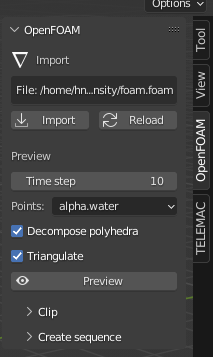
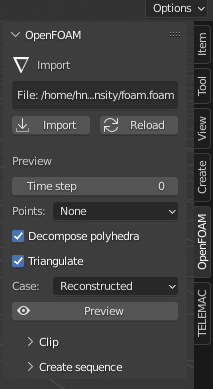
[Docs] Updated user manual

diff --git a/docs/source/documentation/telemac/index.rst b/docs/source/documentation/telemac/index.rst
@@ -6,7 +6,8 @@ TELEMAC
 * :ref:`telemac_create_sequence`
 
 .. important::
-    Useful information are printed in the console (times, errors, warnings, etc). Do not hesitate to open it. On Windows, ``Window ‣ Toggle System Console``
+    Useful information are printed in the console (times, errors, warnings, etc).
+    Do not hesitate to open it. On Windows, ``Window ‣ Toggle System Console``.
 
 
 .. _telemac_import_file:
@@ -22,7 +23,7 @@ Import a file
     For large meshes (> 100k vertices) or results from 3D simulations, this operation can take several seconds to complete.
 
 .. image:: /images/telemac/import_file.png
-    :width: 35%
+    :width: 45%
     :alt: Import an TELEMAC file (button)
     :align: center
 
@@ -37,7 +38,7 @@ Previewing tools
   You can select the ``TBB_TELEMAC_preview_...`` object and hit ``.`` on your numpad to center the view on it.
 
 .. image:: /images/telemac/preview_panel.png
-    :width: 35%
+    :width: 45%
     :alt: Preview panel
     :align: center
 
@@ -59,10 +60,11 @@ Create a sequence
 Mesh sequence
 -------------
 
-| TODO
+| This type of sequence uses shape keys to update the mesh. So it holds every time steps in memory.
+| That is why it is not recommended to use this sequence for long sequences.
 
 .. image:: /images/telemac/create_mesh_sequence.png
-    :width: 35%
+    :width: 45%
     :alt: Preview panel
     :align: center
 
@@ -75,21 +77,145 @@ Mesh sequence
 * **Normalize**: option to normalize vertices coordinates (remap values in [-1;1])
 * **Name**: name of the sequence
 
-Streaming sequence
-------------------
+Interpolation
+*************
 
-| TODO
+| The use of shape keys lets you to interpolate the animation of the mesh.
 
-.. image:: /images/telemac/create_streaming_sequence.png
-    :width: 35%
+.. important::
+    Vertex colors are linearly interpolated using the defined shape keys.
+
+| Here is how you can do it:
+
+    * Select meshes you want to interpolate in the sequence object
+
+        .. image:: /images/telemac/tuto_interpolate_1.png
+            :width: 85%
+            :alt: Preview panel
+            :align: center
+
+    * Place the time cursor where you want to "center" the Interpolation
+
+        .. image:: /images/telemac/tuto_interpolate_2.png
+            :width: 85%
+            :alt: Preview panel
+            :align: center
+
+    * Then, hit `s` and scale the interpolation moving the mouse
+
+        .. image:: /images/telemac/tuto_interpolate_3.png
+            :width: 85%
+            :alt: Preview panel
+            :align: center
+
+    * Once you are satisfied, press the `left mouse button`
+
+| You can change the type of the interpolation in the `Graph editor`:
+
+    * With meshes selected, open the graph editor
+
+        .. image:: /images/telemac/tuto_interpolate_4.png
+            :width: 85%
+            :alt: Preview panel
+            :align: center
+
+
+    * Select the keyframes you want to edit
+    * Press the `right mouse button` in the editor and choose a new interpolation mode
+
+        .. image:: /images/telemac/tuto_interpolate_5.png
+            :width: 85%
+            :alt: Preview panel
+            :align: center
+
+
+    * It's done!
+
+        .. image:: /images/telemac/tuto_interpolate_6.png
+            :width: 85%
+            :alt: Preview panel
+            :align: center
+
+Edit mesh sequences settings
+****************************
+
+| You can edit mesh sequences settings in the `Object properties` panel.
+
+.. image:: /images/telemac/edit_mesh_sequence.png
+    :width: 45%
     :alt: Preview panel
     :align: center
 
 |
 
-* **Frame start**: starting point of the sequence (frame)
-* **Length**: length of the animation (time steps)
-* **Import point data**: flag to indicate that it must import some point data as vertex colors
-* **List**: list of point data to import (separate each with a ``;``)
-* **Normalize**: option to normalize vertices coordinates (remap values in [-1;1])
-* **Name**: name of the sequence
+* **Import point data**: flag to indicate that it must import some point data as vertex colors.
+* **List**: list of point data to import (separate each with a ``;``).
+
+
+Streaming sequence
+------------------
+
+| This type of sequence holds only one time step in memory. It is recommended to use for long sequences.
+| The mesh automatically updates when the frame changes.
+
+.. image:: /images/telemac/create_streaming_sequence.png
+    :width: 45%
+    :alt: Preview panel
+    :align: center
+
+|
+
+* **Frame start**: starting point of the sequence (frame).
+* **Length**: length of the animation (time steps).
+* **Import point data**: flag to indicate that it must import some point data as vertex colors.
+* **List**: list of point data to import (separate each with a ``;``).
+* **Normalize**: option to normalize vertices coordinates (remap values in [-1;1]).
+* **Name**: name of the sequence.
+
+.. _telemac_streaming_sequence_interpolation:
+
+Interpolation
+*************
+
+| A streaming sequence does not use shape keys, so we can't use the same method as for mesh sequences.
+| However, you can still interpolate the animation of the mesh using our custom tool:
+
+    .. important::
+        Vertex colors are interpolated using the same settings.
+
+
+    * In the streaming sequence settings panel, select an interpolation method.
+
+        .. image:: /images/telemac/tuto_interpolate_streaming_1.png
+            :width: 45%
+            :alt: Preview panel
+            :align: center
+
+    * Then, indicate the number of time steps to add between each time point.
+
+        .. image:: /images/telemac/tuto_interpolate_streaming_2.png
+            :width: 45%
+            :alt: Preview panel
+            :align: center
+
+
+Edit streaming sequences settings
+*********************************
+
+| You can edit streaming sequences settings in the `Object properties` panel.
+
+.. image:: /images/telemac/edit_streaming_sequence.png
+    :width: 45%
+    :alt: Preview panel
+    :align: center
+
+|
+
+* **Update**: update this sequence whenever the frame changes.
+* **Frame start**: starting point of the sequence (frame).
+* **Length**: length of the animation (time steps).
+* **Shade smooth**: whether to use smooth shading or not (flat shading).
+* **Import point data**: import point data as vertex color groups.
+* **List**: list of point data to import (separate each with a ``;``).
+* **Normalize**: option to normalize vertices coordinates (remap values in [-1;1]).
+* **Interpolate**: see :ref:`telemac_streaming_sequence_interpolation`

diff --git a/docs/source/documentation/openfoam/index.rst b/docs/source/documentation/openfoam/index.rst
@@ -6,7 +6,8 @@ OpenFOAM
 * :ref:`openfoam_create_sequence`
 
 .. important::
-    Useful information are printed in the console (times, errors, warnings, etc). Do not hesitate to open it. On Windows, ``Window ‣ Toggle System Console``
+    Useful information are printed in the console (times, errors, warnings, etc).
+    Do not hesitate to open it. On Windows, ``Window ‣ Toggle System Console``.
 
 
 .. _openfoam_import_file:
@@ -22,7 +23,7 @@ Import a file
     For large meshes (> 100k vertices), this operation can take several seconds to complete.
 
 .. image:: /images/openfoam/import_file.png
-    :width: 35%
+    :width: 45%
     :alt: Import an OpenFOAM file (button)
     :align: center
 
@@ -37,18 +38,21 @@ Previewing tools
   You can select the ``TBB_OpenFOAM_preview`` object and hit ``.`` on your numpad to center the view on it.
 
 .. image:: /images/openfoam/preview_panel.png
-    :width: 35%
+    :width: 45%
     :alt: Preview panel
     :align: center
 
 |
 
-* **Reload**: reloads the selected file (`when something went wrong or temporary data is not available anymore`)
-* **Time step**: time step to preview
-* **Points**: point data to preview as vertex colors (`switch to material preview to see it`)
-* **Decompose polyhedra**: whether polyhedra are to be decomposed when read. If True, decompose polyhedra into tetrahedra and pyramids
-* **Triangulate**: more complex polygons will be broken down into triangles
-* **Preview**: preview the mesh with the selected parameters
+* **Reload**: reloads the selected file (`when something went wrong or temporary data is not available anymore`).
+* **Time step**: time step to preview.
+* **Points**: point data to preview as vertex colors (`switch to material preview to see it`).
+* **Decompose polyhedra**: indicate whether polyhedra are to be decomposed when read. If True, decompose polyhedra into tetrahedra and pyramids.
+* **Triangulate**: more complex polygons will be broken down into triangles.
+* **Case**: indicate whether decomposed mesh or reconstructed mesh should be read.
+* **Preview**: preview the mesh with the selected parameters.
+
+.. _openfoam_clip:
 
 Clip
 ----
@@ -59,7 +63,7 @@ Clip
 | You can clip a mesh as you would do in ParaView.
 
 .. image:: /images/openfoam/clip_panel.png
-    :width: 35%
+    :width: 45%
     :alt: Preview panel
     :align: center
 
@@ -68,9 +72,9 @@ Clip
 * **Type**: clipping method (Scalars, box, etc)
 
     * **Scalars clipping method**
-        * **Scalars**: name of scalar to clip on
-        * **Value**: set the clipping value
-        * **Invert**: flag on whether to flip/invert the clip. When True, only the mesh below 'value' will be kept. When False, only values above 'value' will be kept
+        * **Scalars**: name of scalar to clip on.
+        * **Value**: set the clipping value.
+        * **Invert**: flag on whether to flip/invert the clip. When True, only the mesh below 'value' will be kept. When False, only values above 'value' will be kept.
 
 .. _openfoam_create_sequence:
 
@@ -87,17 +91,17 @@ Mesh sequence
 | It is built using the `Stop-motion-OBJ <https://github.com/neverhood311/Stop-motion-OBJ/wiki>`_. Thus you can use the features associated for this sequence.
 
 .. image:: /images/openfoam/create_mesh_sequence.png
-    :width: 35%
+    :width: 45%
     :alt: Preview panel
     :align: center
 
 |
 
-* **Start**: starting point of the sequence (time step)
-* **End**: ending point of the sequence (time step)
-* **Import point data**: flag to indicate that it must import some point data as vertex colors
-* **List**: list of point data to import (separate each with a ``;``)
-* **Name**: name of the sequence
+* **Start**: starting point of the sequence (time step).
+* **End**: ending point of the sequence (time step).
+* **Import point data**: flag to indicate that it must import some point data as vertex colors.
+* **List**: list of point data to import (separate each with a ``;``).
+* **Name**: name of the sequence.
 
 Streaming sequence
 ------------------
@@ -106,14 +110,37 @@ Streaming sequence
 | The mesh automatically updates when the frame changes.
 
 .. image:: /images/openfoam/create_streaming_sequence.png
-    :width: 35%
+    :width: 45%
     :alt: Preview panel
     :align: center
 
 |
 
-* **Frame start**: starting point of the sequence (frame)
-* **Length**: length of the animation (time steps)
-* **Import point data**: flag to indicate that it must import some point data as vertex colors
-* **List**: list of point data to import (separate each with a ``;``)
-* **Name**: name of the sequence
+* **Frame start**: starting point of the sequence (frame).
+* **Length**: length of the animation (time steps).
+* **Import point data**: flag to indicate that it must import some point data as vertex colors.
+* **List**: list of point data to import (separate each with a ``;``).
+* **Name**: name of the sequence.
+
+Edit streaming sequence settings
+********************************
+
+| You can edit streaming sequences settings in the `Object properties` panel.
+
+.. image:: /images/openfoam/edit_streaming_sequence.png
+    :width: 45%
+    :alt: Preview panel
+    :align: center
+
+|
+
+* **Update**: update this sequence whenever the frame changes.
+* **Frame start**: starting point of the sequence (frame).
+* **Length**: length of the animation (time steps).
+* **Shade smooth**: whether to use smooth shading or not (flat shading).
+* **Import point data**: import point data as vertex color groups.
+* **List**: list of point data to import (separate each with a ``;``).
+* **Decompose polyhedra**: indicate whether polyhedra are to be decomposed when read. If True, decompose polyhedra into tetrahedra and pyramids.
+* **Triangulate**: more complex polygons will be broken down into triangles.
+* **Case**: indicate whether decomposed mesh or reconstructed mesh should be read.
+* **Clip**: see :ref:`openfoam_clip`

diff --git a/docs/source/documentation/installation_guide/linux.rst b/docs/source/documentation/installation_guide/linux.rst
@@ -4,8 +4,8 @@ Linux
 .. important::
     This tutorial is written for Ubuntu
 
-#. Install `Blender <https://www.blender.org/download/>`_ (at least version 3.1)
-#. Install dependancies:
+#. Install `Blender <https://www.blender.org/download/>`_ (at least version 3.0)
+#. Install dependencies:
     * Blender add-on: `Stop-motion-OBJ <https://github.com/neverhood311/Stop-motion-OBJ/releases>`_ (at least version 2.2.0.alpha.18)
     * Python packages:
 
